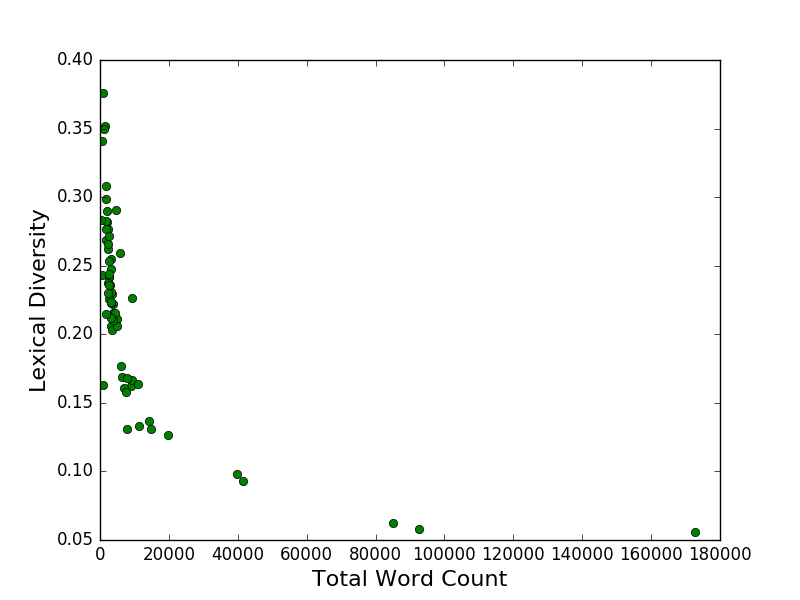
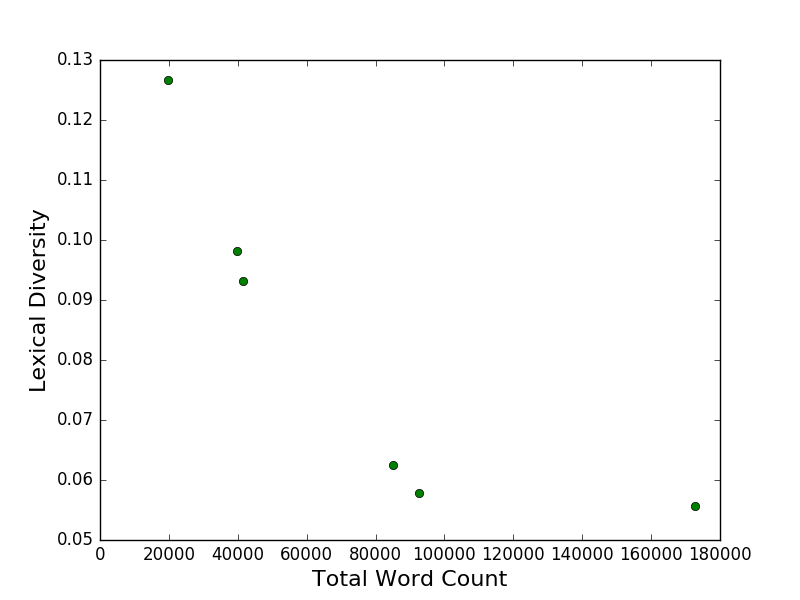
final push

diff --git a/generator.py b/generator.py
@@ -58,7 +58,7 @@ kyle_lexical_diversity = len(set(kyle_tokens_list)) / len(kyle_tokens_list)
 #print(kyle_lexical_diversity)
 #len(kyle_tokens_list)/len(kyle_tokens)
 
-top_characters = quotes_by_character.count()[quotes_by_character.count().Line > 100].index
+top_characters = quotes_by_character.count()[quotes_by_character.count().Line > 1000].index
 pro_dict = cmudict.dict()
 
 def get_character_params(data, character):
@@ -236,34 +236,34 @@ def generate_poem(stanzas, target):
             if score['compound'] <= -0.5 and mood == 'NEG':       
                 if len(poem_list[k]) < 3:
                     poem_list[k].append(poem + ',')
-                    print("perplexity:"+ str(perpleList[-1]))
+                    # print("perplexity:"+ str(perpleList[-1]))
                     perplexityFile.write(str(perpleList[-1])+"\n")
                     # print(score)
                 else: 
                     poem_list[k].append(poem + '.')
-                    print("perplexity:" + str(perpleList[-1]) + "\n")
+                    # print("perplexity:" + str(perpleList[-1]) + "\n")
                     perplexityFile.write(str(perpleList[-1]) + "\n")
                     # print(score)
             elif score['compound'] >= 0.5 and mood == 'POS':
                 if len(poem_list[k]) < 3:
                     poem_list[k].append(poem + ',')
-                    print("perplexity:" + str(perpleList[-1]))
+                    # print("perplexity:" + str(perpleList[-1]))
                     perplexityFile.write(str(perpleList[-1]) + "\n")
                     # print(score)
                 else: 
                     poem_list[k].append(poem + '.')
-                    print("perplexity:" + str(perpleList[-1]) + "\n")
+                    # print("perplexity:" + str(perpleList[-1]) + "\n")
                     perplexityFile.write(str(perpleList[-1]) + "\n")
                     # print(score)
             elif mood == 'WTV':
                 if len(poem_list[k]) < 3:
                     poem_list[k].append(poem + ',')
-                    print("perplexity:" + str(perpleList[-1]))
+                    # print("perplexity:" + str(perpleList[-1]))
                     perplexityFile.write(str(perpleList[-1]) + "\n")
                     # print(score)
                 else: 
                     poem_list[k].append(poem + '.')
-                    print("perplexity:" + str(perpleList[-1]) + "\n")
+                    # print("perplexity:" + str(perpleList[-1]) + "\n")
                     perplexityFile.write(str(perpleList[-1]) + "\n")
                     # print(score)
 
